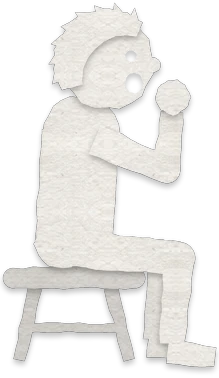
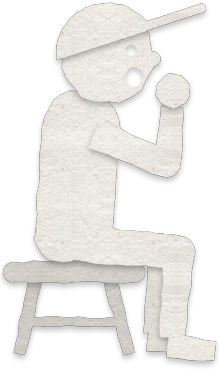
Give the man a cap

diff --git a/site/index.html b/site/index.html
@@ -894,7 +894,7 @@
     </a>
   </p>
 
-  <img class="percher" src="src/paper-man.webp" width="219" height="378" alt="">
+  <img class="percher" src="src/paper-man.webp" width="219" height="372" alt="">
 
   <p class="perch-note">
     <svg class="ticks" aria-hidden="true"><use href="#ticks"/></svg>
